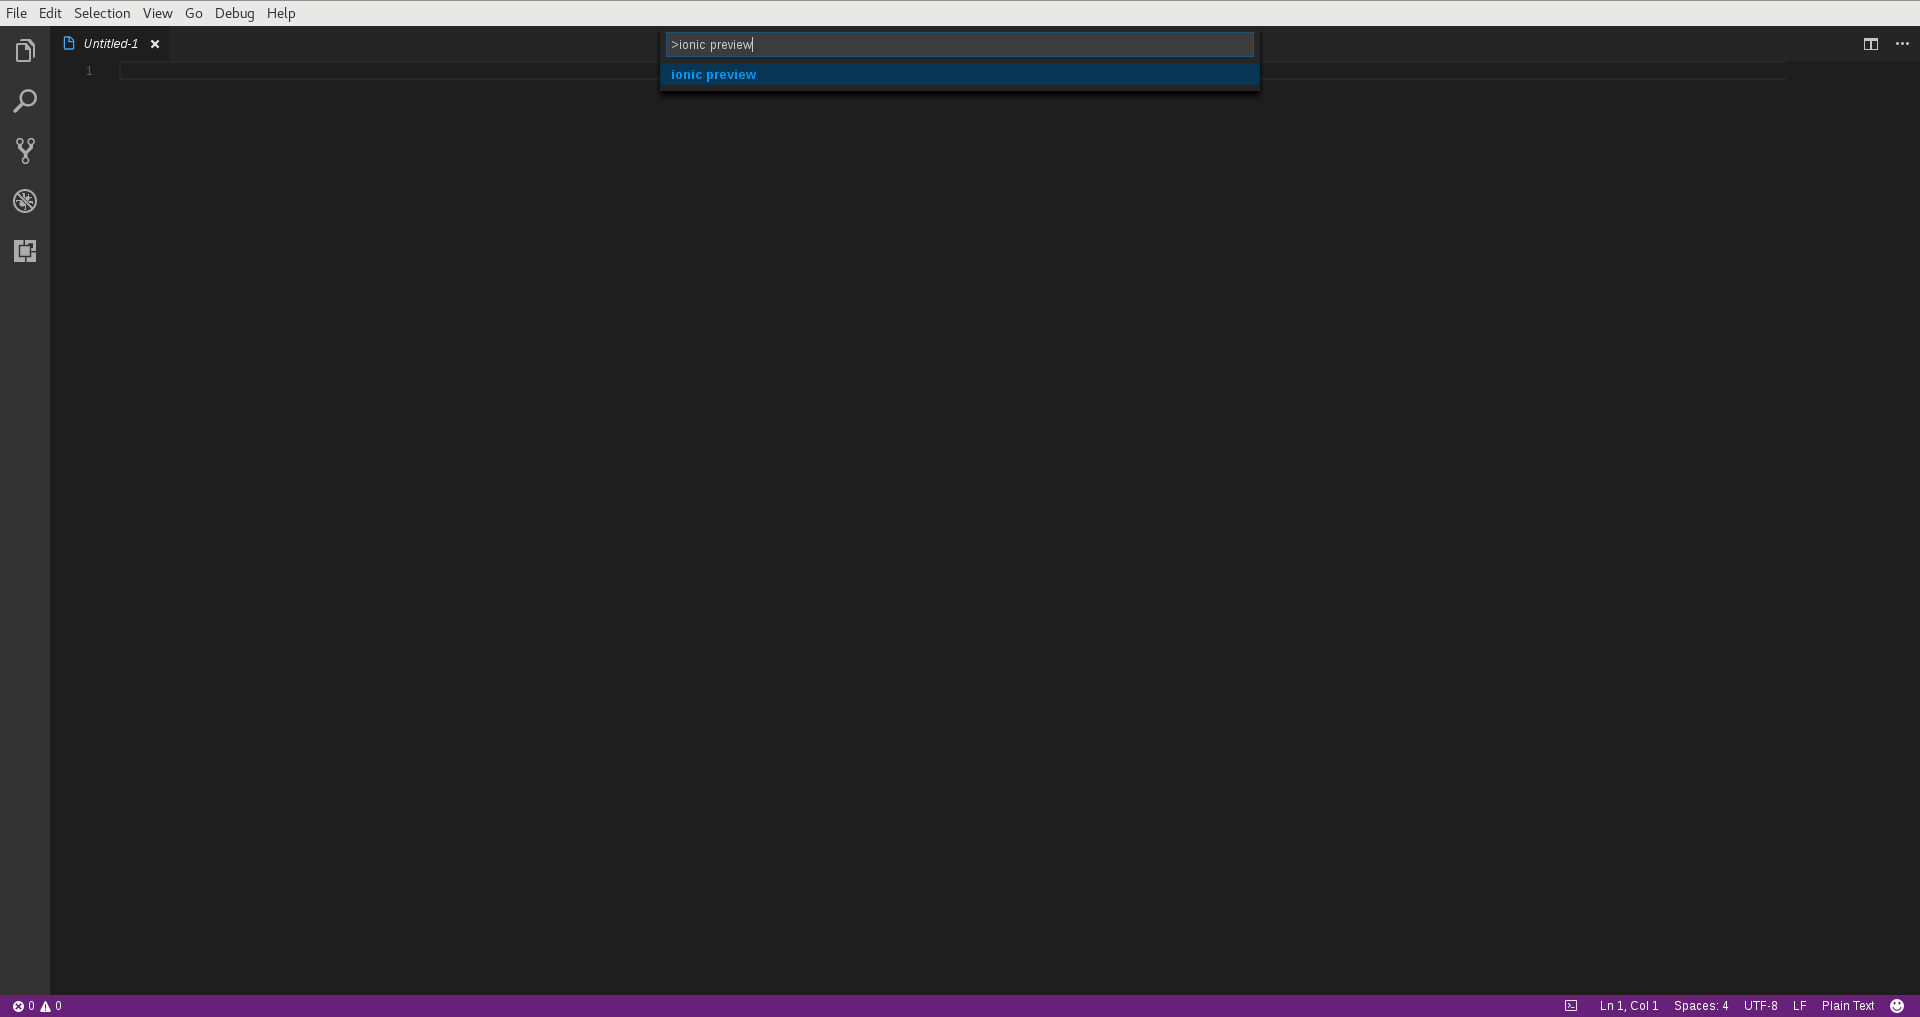
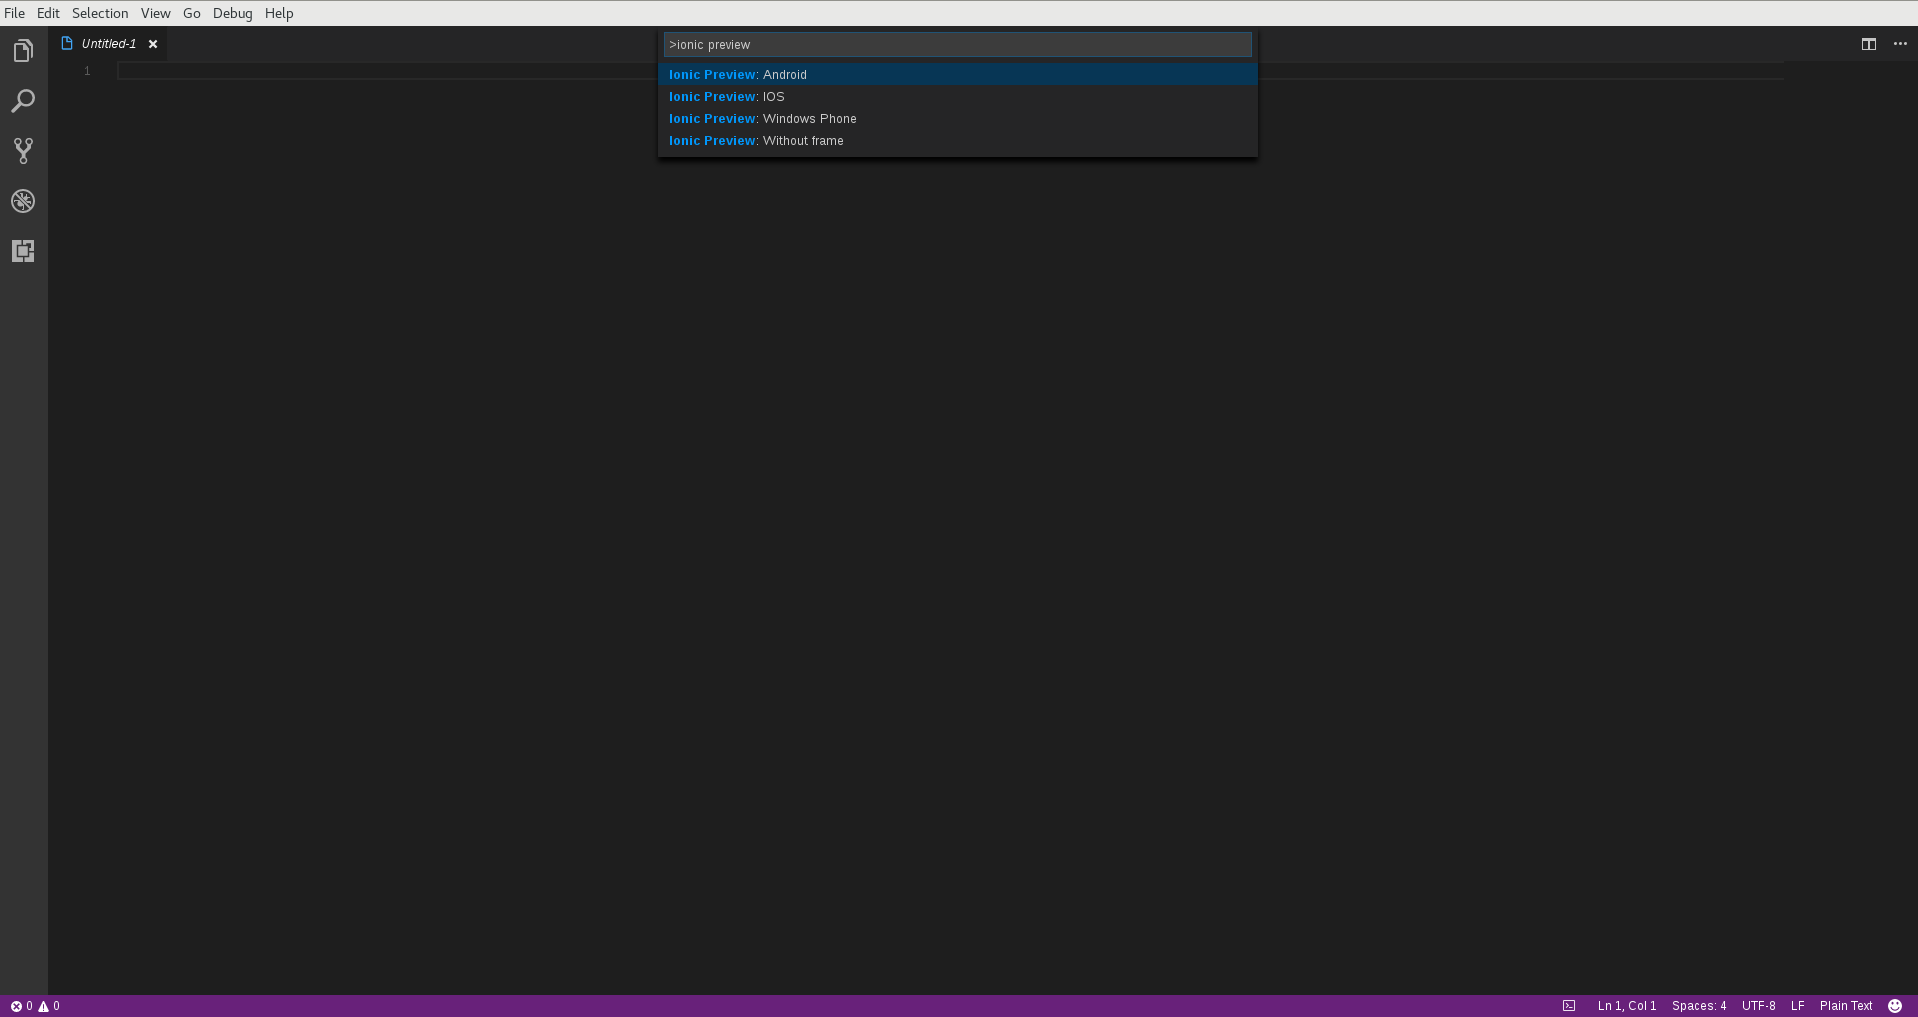
Readme.md updated usage

diff --git a/README.md b/README.md
@@ -1,8 +1,8 @@
 # VS Code Ionic Preview
 
 
-[![Version](http://vsmarketplacebadge.apphb.com/version/ionic-preview.ionic-preview.svg)](https://marketplace.visualstudio.com/items?itemName=ionic-preview.ionic-preview) 
-[![Installs](http://vsmarketplacebadge.apphb.com/installs/ionic-preview.ionic-preview.svg)](https://marketplace.visualstudio.com/items?itemName=ionic-preview.ionic-preview)
+[![Version](https://vsmarketplacebadge.apphb.com/version/ionic-preview.ionic-preview.svg)](https://marketplace.visualstudio.com/items?itemName=ionic-preview.ionic-preview) 
+[![Installs](https://vsmarketplacebadge.apphb.com/installs/ionic-preview.ionic-preview.svg)](https://marketplace.visualstudio.com/items?itemName=ionic-preview.ionic-preview)
 
 An extension to preview Ionic Serve in VSCode
 
@@ -10,10 +10,19 @@ An extension to preview Ionic Serve in VSCode
 The extension can be activated with
 
 * Toggle Preview - `ctrl+shift+P`
-* Command `ionic preview`
+* Command `Ionic Preview: Android`  to display as Android
+* Command `Ionic Preview: IOS`  to display as IOS
+* Command `Ionic Preview: Windows`  to display as Windows Phone
+* Command `Ionic Preview: Without frame`   to view without frame
 
 <p align="center"><img src="https://github.com/jadsonbr/ionic-preview/blob/master/images/command.png?raw=true"></p>
-<p align="center"><img src="https://github.com/jadsonbr/ionic-preview/blob/master/images/preview.png?raw=true"></p>
+
+### Preview in IOS, Android and Windows Phone
+
+<p align="center"><img src="https://github.com/jadsonbr/ionic-preview/blob/master/images/preview-android-ios-windows.jpg?raw=true"></p>
+
+## Settings
+* `ionic-preview.port` : Customize Port Number of your Ionic Serve. Default value is `8100`.
 
 
 ### Contributors
